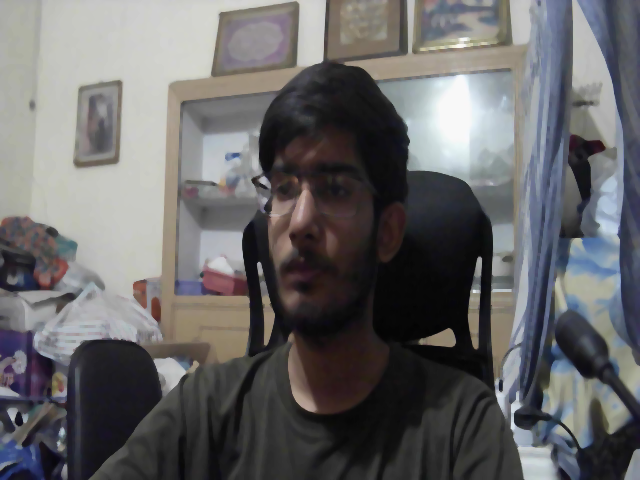
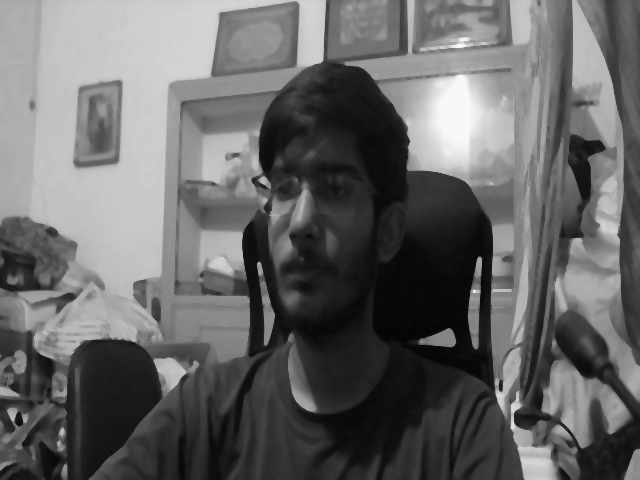
Final Changes

diff --git a/prototype/main.py b/prototype/main.py
@@ -12,8 +12,8 @@ while True:
 
     frame_resized = cv.resize(frame, (640, 480), interpolation=cv.INTER_AREA)
     frame_bw = cv.cvtColor(frame_resized, cv.COLOR_BGR2GRAY)
-    frame_denoise = cv.medianBlur(frame_resized, ksize=5)
-    frame_edges = cv.Canny(frame_resized, 100, 200)
+    frame_denoise = cv.medianBlur(frame_bw, ksize=5)
+    frame_edges = cv.Canny(frame_denoise, 100, 200)
 
     cv.imwrite('processed images/resized_frame.png', frame_resized)
     cv.imwrite('processed images/black_and_white_frame.png', frame_bw)
